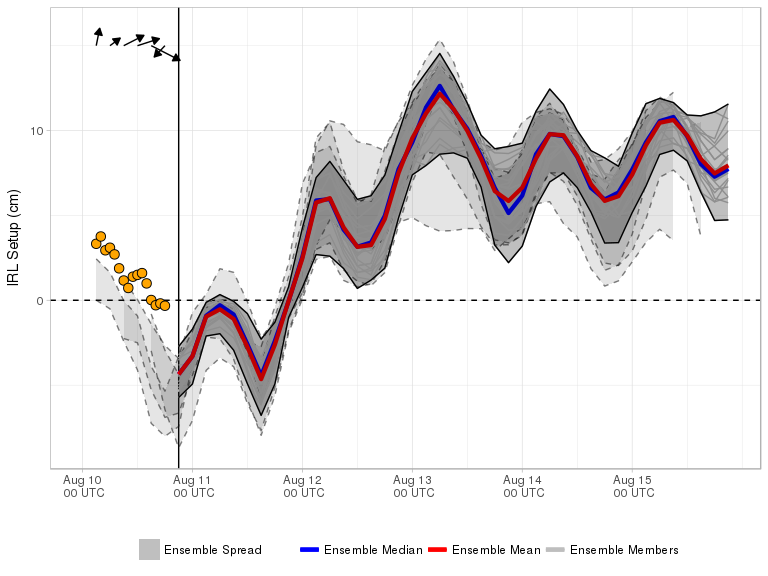
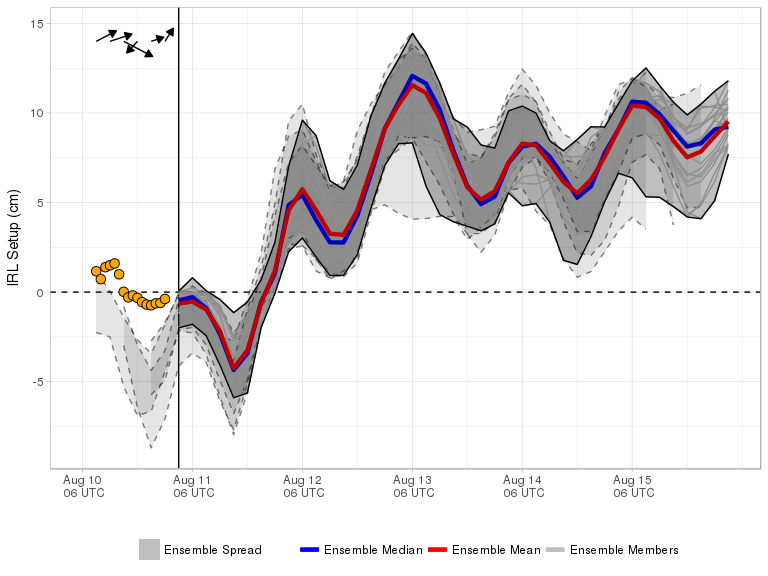
Forecast Update

Changed region(s): [[0.0312, 0.0625, 1.0, 0.7812], [0.125, 0.0312, 0.25, 0.125], [0.2188, 0.0312, 0.25, 0.0625]]

diff --git a/docs/index.md b/docs/index.md
@@ -1,9 +1,9 @@
-Current Forecast 2018-08-10, Cycle 12UTC
+Current Forecast 2018-08-10, Cycle 18UTC
 ----------------------------------------
 
 [![](img/raw_setup.png)](https://fit-winds.github.io/IRLSetup/img/raw_setup.png)
 
-> Forecast valid 2018-08-10 14:26:54.
+> Forecast valid 2018-08-10 20:26:26.
 
 Explanation
 -----------
@@ -17,7 +17,7 @@ star), and Sebastian, FL (white star). In general, southerly (northerly)
 winds result in increased water elevation near Titusville (Sebastian)
 and positive (negative) setup.
 
-The current cycle 2018-08-10 12UTC 0.5° [Global Ensemble Forecast System
+The current cycle 2018-08-10 18UTC 0.5° [Global Ensemble Forecast System
 (GEFS)](https://www.ncdc.noaa.gov/data-access/model-data/model-datasets/global-ensemble-forecast-system-gefs)
 mean and median forecasts of setup are represented by the red and blue
 curves, respectively. Ensemble spread from the current and three
